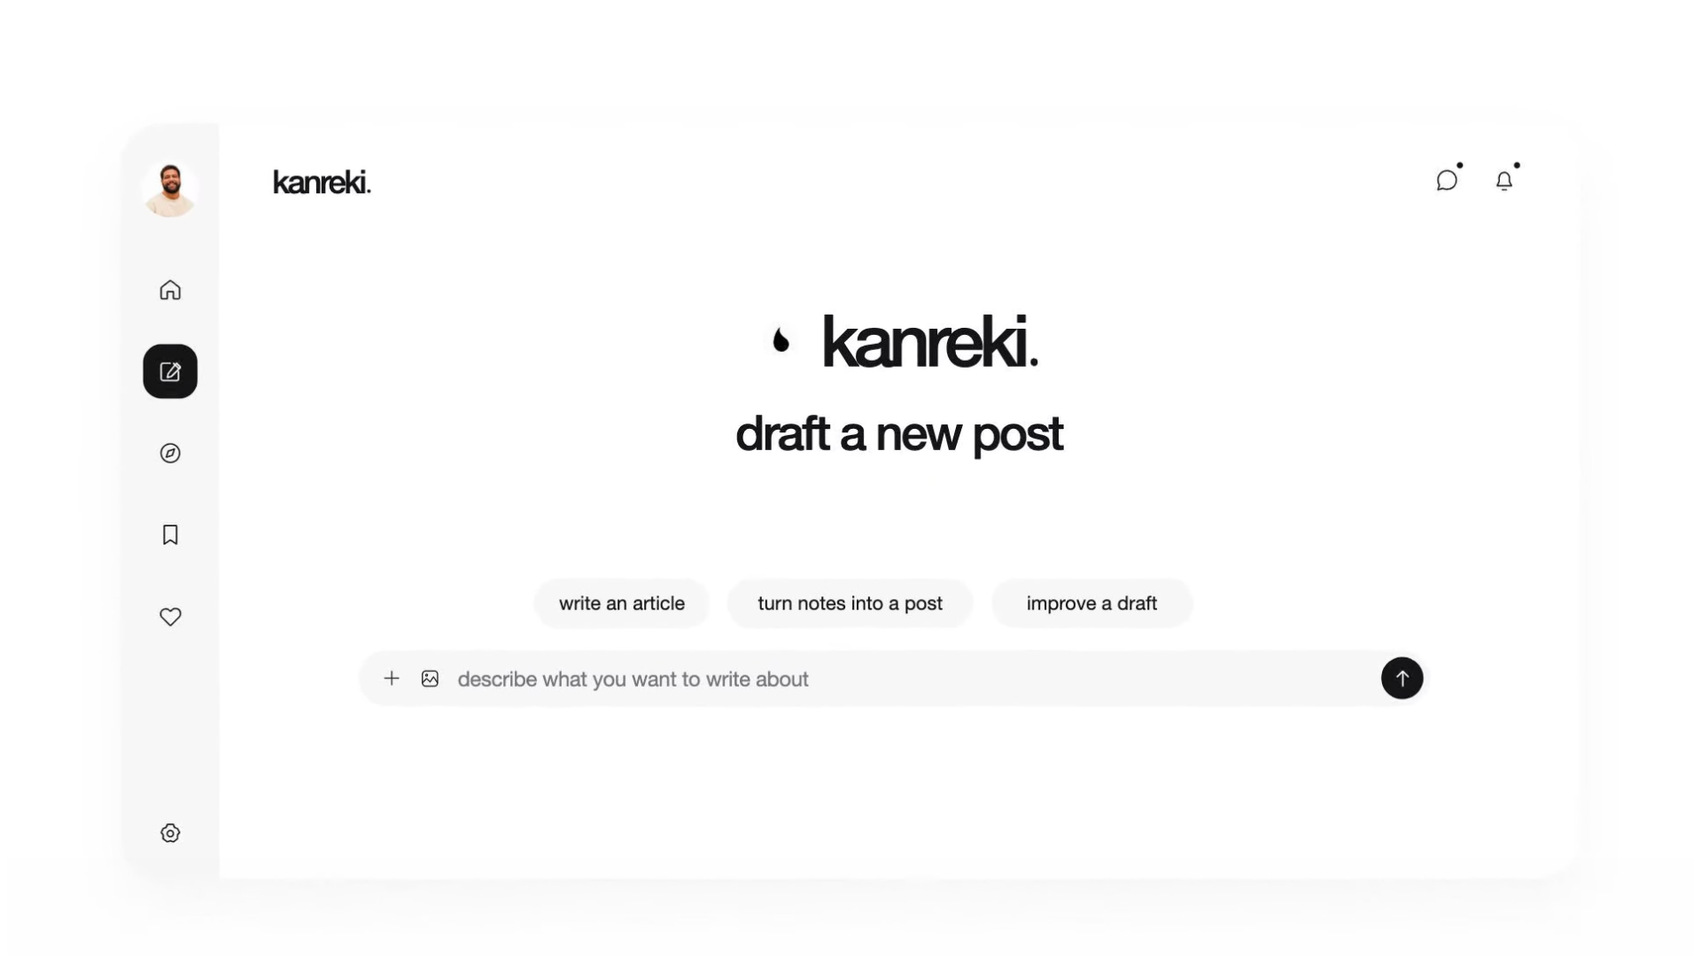
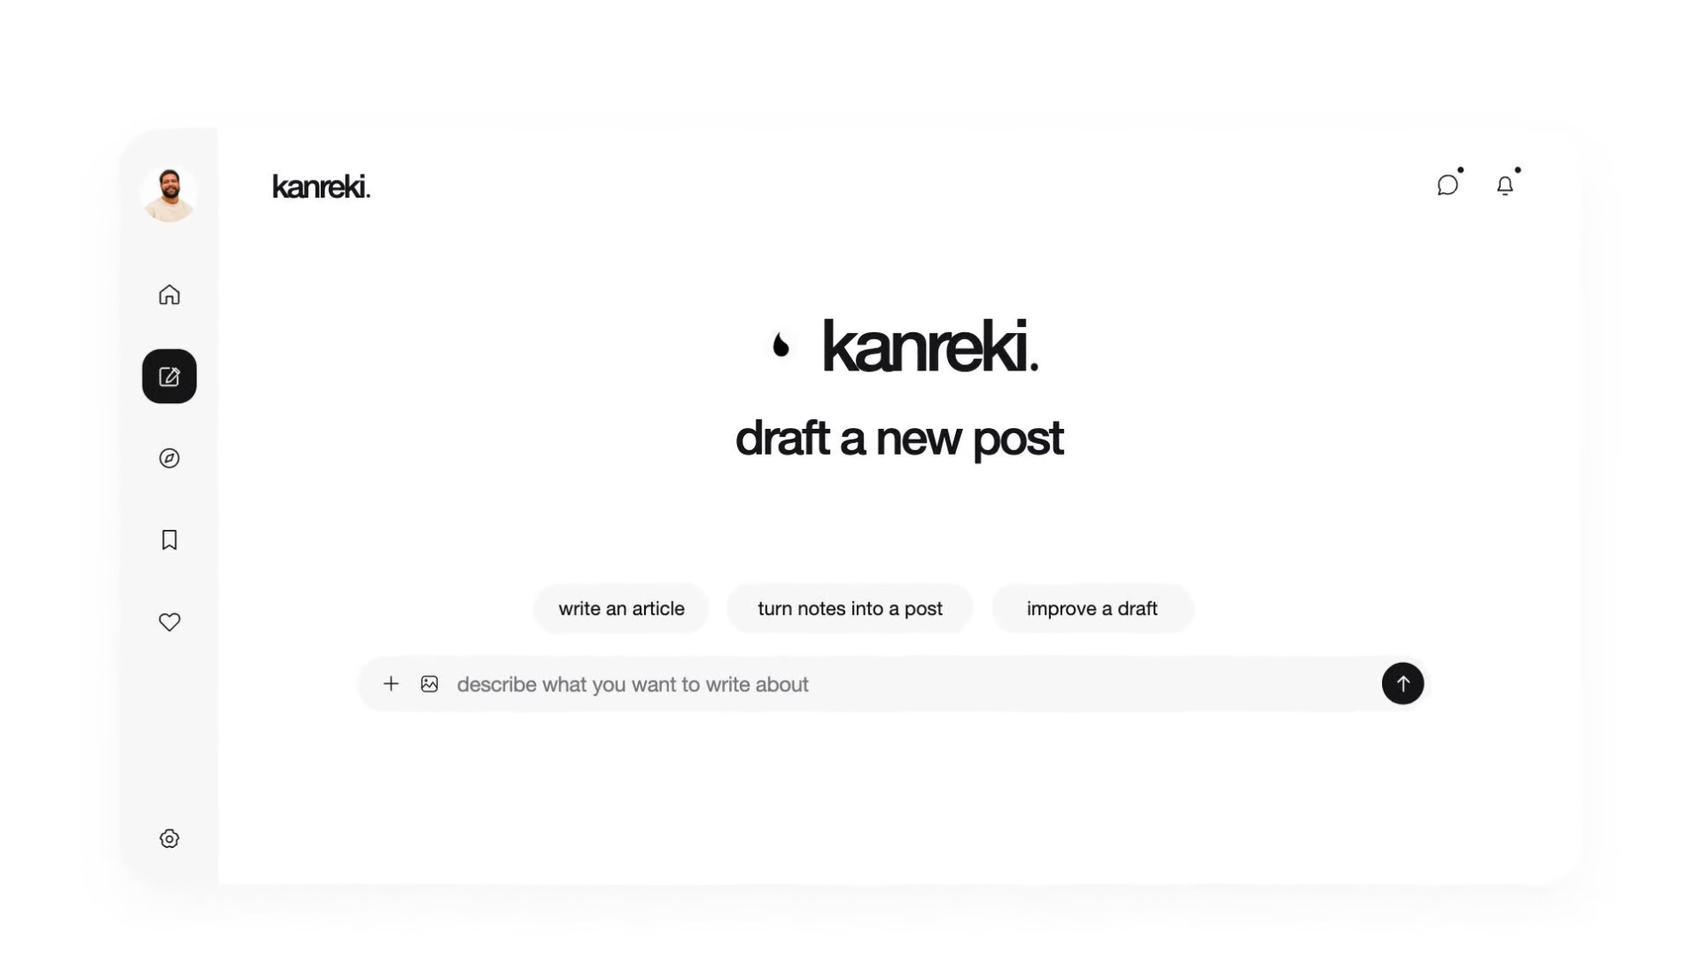
Publish owner-approved legal disclosures and enable production discovery

diff --git a/src/pages/Information.tsx b/src/pages/Information.tsx
@@ -8,12 +8,12 @@ export function Contact() {
 }
 const policies = {
   privacy: { title: 'privacy', sections: [
-    ['Scope and responsibility', 'This notice covers the public kanreki website and enquiries sent through it. The responsible operator’s legal name and public contact address still require owner confirmation before this notice is finalized. The brand was established in 2020; shared team and ownership with kailor do not identify a separate registered company.'],
+    ['Scope and responsibility', 'This public website is operated by Keeno Smith in his personal capacity under the kanreki brand, established in 2020. There is no separately registered kanreki legal entity, registered business premises or dedicated postal address. Use the contact form for privacy enquiries and requests. This notice covers this public website and its enquiry form.'],
     ['Information you provide', 'The contact form collects your name, email address and message so the team can receive, assess and respond to your enquiry, feedback or privacy request. Supplying these fields is voluntary, but they are needed to submit the form and receive a reply. Do not send passwords, identity documents or sensitive information. This website has no account backend, and sign-in and registration remain disabled.'],
     ['Enquiry delivery and request metadata', 'Sending an enquiry transmits the fields to EmailJS, which uses the existing connected Zoho email service to deliver the message to the team’s mailbox. EmailJS request history can contain the submitted fields and technical metadata, including browser, device, referring page, approximate country and IP-related information. The public website does not maintain a separate enquiry database. An unsent form draft exists only in memory while the dialog is open.'],
     ['Hosting and purposes', 'Cloudflare Pages delivers and protects this website. Hosting requests disclose information such as IP address, requested URL, browser details and request timing to the hosting infrastructure. Processing supports delivery, troubleshooting and protection against misuse. No application analytics, advertising trackers or social embeds are included. Enquiry information is used to handle the request and related correspondence, not to create a publishing account or subscribe visitors to marketing.'],
-    ['Service providers and international processing', 'Cloudflare, EmailJS and the connected email service process information to provide hosting, security and delivery. Their processing may take place outside South Africa. EmailJS states that its servers are in the United States; the actual mailbox location and applicable cross-border safeguards must be confirmed before this notice is finalized. We do not claim that all processing remains in South Africa. External LinkedIn and kailor links lead to sites with their own privacy practices.'],
-    ['Retention and deletion', 'Contact drafts are not saved in browser storage. Sent enquiries and replies remain in the receiving mailbox and may also appear in EmailJS history under its account settings and plan. This frontend has no automatic mailbox or provider-history deletion mechanism. The owner’s actual retention and deletion practice, including any applicable record-keeping duties, still requires confirmation; no fixed retention period is asserted here.'],
+    ['Service providers and international processing', 'Cloudflare, EmailJS and the connected email service process information to provide hosting, security and delivery. Their processing may take place outside South Africa. EmailJS states that its servers are in the United States. Hosting and email processing locations depend on the providers; we do not claim that all processing remains in South Africa or that a particular mailbox location has been verified. External LinkedIn and kailor links lead to sites with their own privacy practices.'],
+    ['Retention and deletion', 'Contact drafts are not saved in browser storage. Sent enquiries and replies remain in the receiving mailbox and may also appear in EmailJS history under its account settings and plan. This frontend has no automatic mailbox or provider-history deletion mechanism. From 18 November 2026, the operator has adopted a policy of retaining enquiry correspondence for 12 months after the last relevant correspondence. Enquiries will be reviewed quarterly and removed from the shared mailbox when no longer required, subject to applicable legal obligations. This is a newly adopted manual process, not automated deletion or a description of historical practice. Provider history and backups follow the relevant service settings and practices; this mailbox policy does not promise their immediate erasure.'],
     ['Security', 'HTTPS protects data in transit to the website and enquiry endpoint. The website limits permitted third-party connections and validates form fields. The form also has an in-memory duplicate-submission guard, cooldown and honeypot. These measures reduce ordinary misuse but do not guarantee security or prevent direct requests to the provider. The current shared EmailJS configuration has no domain allowlist; its public client identifiers are not private credentials.'],
     ['Your choices and privacy requests', 'Use the contact form to request access to information concerning you, correction, deletion, restriction or to object to processing. Provide enough detail to identify the enquiry, and avoid sending sensitive documents initially. We may need to verify your identity before disclosing or changing personal information and will consider applicable legal obligations. You may also raise a concern with South Africa’s Information Regulator.'],
     ['Separate publishing application and changes', 'The future publishing application will require its own privacy information covering accounts, content, moderation and any AI processing. This public-site notice does not describe those future services as operational. Material changes to this website’s processing will be reflected in an updated notice and publication date.'],
@@ -25,7 +25,7 @@ const policies = {
     ['Accuracy and availability', 'We aim to provide accurate information, but descriptions, features and availability may change. The material is general information, not professional advice or a guarantee of future access. We do not promise uninterrupted or error-free availability. Nothing in these terms excludes rights, duties or liability that applicable law does not permit us to exclude, or excuses fraud or deliberate unlawful conduct.'],
     ['External links', 'Linked websites are independently operated and have their own terms and privacy practices. A link does not guarantee their content, security or availability.'],
     ['Enquiries', 'Use the contact form for questions about this website or privacy. Provide accurate contact details and avoid confidential credentials or sensitive information. Delivery depends on EmailJS and the connected email provider. An on-screen success message follows provider acceptance; it is not a guarantee of a response time.'],
-    ['Separate application terms', 'Publishing-platform accounts, contributor rights, moderation, publishing and any future commercial services will require separate terms. These public website terms do not replace those terms or authorize access to that application. Questions about this website can be sent using the contact form.'],
+    ['Separate application terms', 'Publishing-platform accounts, contributor rights, moderation, publishing and any future commercial services will require separate terms. These public website terms do not replace those terms or authorize access to that application. This public website is operated by Keeno Smith in his personal capacity under the kanreki brand. South African law applies, subject to any mandatory rights under applicable law. Questions about this website can be sent using the contact form.'],
   ] },
   cookies: { title: 'cookies', sections: [
     ['Application storage', 'The public website application does not set cookies or persist information in localStorage or sessionStorage. An unsent enquiry stays in memory while the dialog is open. Disabled account forms do not establish a login session. The site does not include application analytics, advertising trackers or embedded third-party social content. Its films and images are served from this website.'],
@@ -38,7 +38,7 @@ const policies = {
 export type Policy = keyof typeof policies;
 export function Legal({ page }: { page: Policy }) {
   const policy = policies[page];
-  return <article className="legal-document"><h1>{policy.title}</h1><p className="review-notice">Working draft | awaiting owner and legal review before publication.</p>{policy.sections.map(([title, text]) => <section key={title}><h2>{title}</h2><p>{text}</p></section>)}<ContactLink>contact the team</ContactLink></article>;
+  return <article className="legal-document"><h1>{policy.title}</h1><p className="policy-effective-date">Effective date: 18 November 2026.</p>{policy.sections.map(([title, text]) => <section key={title}><h2>{title}</h2><p>{text}</p></section>)}{page==='privacy'&&<p>Provider information: <a href="https://www.cloudflare.com/privacypolicy/" target="_blank" rel="noopener noreferrer">Cloudflare privacy</a>, <a href="https://www.emailjs.com/legal/privacy-policy/" target="_blank" rel="noopener noreferrer">EmailJS privacy</a> and <a href="https://www.zoho.com/privacy.html" target="_blank" rel="noopener noreferrer">Zoho privacy</a>. Privacy concerns may also be raised with the <a href="https://inforegulator.org.za/complaints/" target="_blank" rel="noopener noreferrer">South African Information Regulator</a>.</p>}{page==='cookies'&&<p>See <a href="https://developers.cloudflare.com/fundamentals/reference/policies-compliances/cloudflare-cookies/" target="_blank" rel="noopener noreferrer">Cloudflare’s security cookie documentation</a> for infrastructure-managed storage.</p>}<ContactLink>contact the team</ContactLink></article>;
 }
 export function NotFound() {
   return <article className="information-page not-found"><h1>This page isn’t here.</h1><p>The address may have changed, or the page may not exist.</p><Link className="button" to="/">back to home</Link></article>;

diff --git a/tests/legal.test.tsx b/tests/legal.test.tsx
@@ -1,0 +1,14 @@
+import {it,expect} from 'vitest';
+import {render,screen,fireEvent} from '@testing-library/react';
+import {MemoryRouter} from 'react-router';
+import {App} from '../src/App';
+function mount(path:string){return render(<MemoryRouter initialEntries={[path]}><App/></MemoryRouter>);}
+it('publishes owner-authorized notices with a working privacy contact action',()=>{
+ const {container}=mount('/privacy');expect(container.querySelector('.review-notice')).toBeNull();expect(screen.getByText('Effective date: 18 November 2026.')).toBeTruthy();expect(screen.getByText(/Keeno Smith in his personal capacity/)).toBeTruthy();expect(screen.getByText(/newly adopted manual process/)).toBeTruthy();expect(container.textContent).toContain('12 months after the last relevant correspondence');expect(container.textContent).toContain('reviewed quarterly');expect(container.textContent).not.toMatch(/Pty Ltd|registration number|legally approved|automated deletion is implemented/);fireEvent.click(screen.getByRole('link',{name:'contact the team'}));expect(screen.getByRole('dialog',{name:'your enquiry'})).toBeTruthy();
+});
+it('distinguishes application storage from conditional hosting cookies',()=>{
+ const {container}=mount('/cookies');expect(container.querySelector('.review-notice')).toBeNull();expect(container.textContent).toContain('not a guarantee about every hosting security response');expect(container.textContent).toContain('cf_clearance');expect(container.textContent).toContain('does not offer an optional-cookie consent banner');
+});
+it('keeps public website terms separate from future application accounts',()=>{
+ const {container}=mount('/terms');expect(container.textContent).toContain('do not replace those terms or authorize access');expect(container.textContent).toContain('South African law applies');expect(container.querySelector('.review-notice')).toBeNull();
+});

diff --git a/src/seo.ts b/src/seo.ts
@@ -10,9 +10,9 @@ export const pages = {
   '/contact': { title: 'contact | kanreki', description: 'Contact the kanreki team about the publication and future access.', index: true },
   '/sign-in': { title: 'sign in | kanreki', description: 'Public sign-in to kanreki is currently restricted.', index: false },
   '/create-account': { title: 'create account | kanreki', description: 'Public registration for kanreki is currently restricted.', index: false },
-  '/privacy': { title: 'privacy | kanreki', description: 'Draft privacy information for the kanreki public website, pending review.', index: false },
-  '/terms': { title: 'terms | kanreki', description: 'Draft terms for the kanreki public website, pending review.', index: false },
-  '/cookies': { title: 'cookies | kanreki', description: 'Current cookie and storage behaviour of the kanreki public website. Draft pending review.', index: false },
+  '/privacy': { title: 'privacy | kanreki', description: 'Privacy information for the kanreki public website and enquiry form.', index: false },
+  '/terms': { title: 'terms | kanreki', description: 'Terms of use for the kanreki public website.', index: false },
+  '/cookies': { title: 'cookies | kanreki', description: 'Cookie and storage disclosures for the kanreki public website.', index: false },
 } as const;
 export function pageMetadata(path: string) {
   const normalised = path.replace(/\/$/, '') || '/';

diff --git a/tests/live/deployment.spec.ts b/tests/live/deployment.spec.ts
@@ -18,5 +18,5 @@ test('live enquiry focus, exact input treatment and legal publication status',as
   const name=page.getByLabel('name',{exact:true});await name.click();await expect(name).toHaveCSS('outline-style','none');await expect(name).toHaveCSS('box-shadow','rgb(119, 119, 124) 0px 0px 0px 1px');await expect(name).toHaveCSS('background-color','rgb(233, 233, 235)');await expect(name).toHaveCSS('height','50px');
   const box=await dialog.boundingBox();expect(box!.x).toBeGreaterThanOrEqual(0);expect(box!.x+box!.width).toBeLessThanOrEqual(width);await page.screenshot({path:`docs/verification/live-contact-${width}.png`});await page.keyboard.press('Escape');await expect(dialog).toHaveCount(0);await expect(trigger).toBeFocused();
  }
- for(const path of ['/privacy','/terms','/cookies']){await page.goto(path);if(process.env.KANREKI_LEGAL_FINAL==='true'){await expect(page.locator('.review-notice')).toHaveCount(0);await expect(page.getByText(/Effective date:/)).toBeVisible();}else await expect(page.getByText('Working draft | awaiting owner and legal review before publication.')).toBeVisible();}
+ for(const path of ['/privacy','/terms','/cookies']){await page.goto(path);await expect(page.locator('.review-notice')).toHaveCount(0);await expect(page.getByText('Effective date: 18 November 2026.')).toBeVisible();}
 });

diff --git a/docs/verification/launch/legal-publication-review.md b/docs/verification/launch/legal-publication-review.md
@@ -2,11 +2,11 @@
 
 Scope: the public marketing website only; no account backend, subscription, publishing agreement or operational application terms. Owner authorization permits publication once factual gaps are resolved. No independent lawyer review is claimed.
 
-## Facts requiring owner confirmation
+## Owner-confirmed publication facts
 
-- Responsible operator/legal name and public service/postal address. The brand and shared ownership description do not establish a legal entity or address.
-- Actual enquiry mailbox retention/deletion practice and any retention duties. No automatic deletion schedule is implemented in the public frontend.
-- Separate acceptance of shared EmailJS residual abuse/quota risk without a provider origin allowlist.
+The owner confirmed in this chat that Keeno Smith operates the brand personally, without a separate registered entity or business/postal address; residential disclosure is prohibited. The owner adopted a **new** manual policy of 12 months after last relevant correspondence, quarterly review and mailbox deletion when no longer required, subject to legal obligations. No historical or automated deletion practice is claimed. The owner expressly accepted the shared EmailJS configuration without allowlisting and directed publication and indexing.
+
+POPIA section 18(1)(b) calls for name and address of the responsible party. No dedicated public service address exists. The owner requested that this limitation be identified without blocking technical deployment; the notice gives the confirmed operator name and contact form. This is a documented disclosure limitation, not certification that the statutory address disclosure has been fulfilled. No independent lawyer approval is claimed. The separate provider-risk and legal publication decisions are recorded in release-approvals.json.
 
 ## Verified implementation
 
@@ -32,7 +32,7 @@ We aim to keep information accurate, but features and availability may change. T
 
 Use the enquiry form for website questions and privacy requests. Provide accurate contact details and avoid confidential credentials or sensitive information. Delivery depends on EmailJS and the connected provider; an on-screen confirmation records provider acceptance, not a promise of response time.
 
-Future publishing application accounts, content rights, moderation and services will require separate terms. These public website terms do not replace those terms. South African law and jurisdiction wording awaits confirmation of the actual operator's location.
+Future publishing application accounts, content rights, moderation and services will require separate terms. These public website terms do not replace those terms. The finalized public terms apply South African law subject to mandatory rights.
 
 ## Source references checked
 
@@ -44,4 +44,4 @@ Future publishing application accounts, content rights, moderation and services 
 - Conditional security cookies: https://developers.cloudflare.com/fundamentals/reference/policies-compliances/cloudflare-cookies/
 - Zoho privacy: https://www.zoho.com/privacy.html
 
-This record preserves unresolved facts explicitly; it is not an approval or compliance certification.
+This record preserves the source of the owner’s publication decision and remaining address-disclosure limitation; it is not an independent legal review or compliance certification.

diff --git a/docs/predeployment.md b/docs/predeployment.md
@@ -1,3 +1,15 @@
+# Authorized production launch | 18 November 2026
+
+The owner confirmed personal-capacity operation by Keeno Smith, no separately registered entity or dedicated business/postal address, and a newly adopted manual enquiry retention policy: 12 months after the last relevant correspondence, quarterly review and deletion from the shared mailbox when no longer required, subject to legal obligations. The owner explicitly accepted the residual abuse/quota risk of shared EmailJS identifiers without domain allowlisting and instructed publication and production indexing. The legal pages now carry an effective date of 18 November 2026 and no draft banner. No automated deletion, company registration, corporate address or independent legal review is claimed.
+
+POPIA section 18(1)(b) calls for the responsible party’s name and address. The absence of a dedicated public service address remains documented; no residential address was published. Following the owner’s explicit direction, this is a disclosure limitation rather than an additional technical deployment gate. It is not represented as complete legal compliance. The contact form remains the privacy-request route.
+
+The production environment has been configured for the verified origin, preserving the shared EmailJS identifiers and preview-branch noindex settings. A fresh GitHub build will activate index/follow only for home, About and Contact. Legal and restricted account routes remain noindex. Google URL-prefix ownership is already verified; sitemap submission and indexing requests follow live indexability verification. Actual deployment/test/Search Console outcomes are recorded under docs/verification/launch/.
+
+All six films, homepage layouts, contact modal, account restrictions and kailor resources remain unchanged. Earlier stages below are historical records, not current approval status.
+
+---
+
 # Search Console and legal-publication review | 18 November 2026
 
 Google verified the URL-prefix property **https://kanreki-public.pages.dev/** using its issued HTML file, now preserved under public/. Cloudflare redirects the .html path to the same-origin extensionless resource; its exact content returns HTTP 200 and Google accepted the verification. The property overview is processing data. **No sitemap was submitted and no indexing was requested**, because the actual site remains noindex while material owner decisions are pending.

diff --git a/docs/deployment.md b/docs/deployment.md
@@ -1,3 +1,13 @@
+# Current production authorization | 18 November 2026
+
+The owner approved finalized public-site disclosures based on confirmed personal operation and the newly adopted manual retention policy, and separately accepted the existing shared EmailJS configuration without origin allowlisting. Production settings are DEPLOYMENT_ENV=production, SITE_URL=https://kanreki-public.pages.dev, SITE_ORIGIN_VERIFIED=true and NODE_VERSION=24. Shared identifiers and preview environment settings are preserved. No subscription, DNS, custom domain, kailor configuration or shared template change was made.
+
+Legal pages remain noindex by editorial indexing policy after finalization; this does not indicate unapproved content. The lack of a dedicated public responsible-party address is documented against POPIA section 18(1)(b), with the owner’s express direction not to publish a residential address or block technical deployment on this point. No legal-compliance certification is claimed.
+
+Google URL-prefix ownership is verified. Keep public/google5f979766b2c25bff.html. Production release and Search Console results are recorded in the current verification evidence; prior deployment history follows below.
+
+---
+
 # kanreki | independent Cloudflare Pages deployment
 
 Repository: `keenosmith-del/kanreki-public`. The independent **GitHub-connected** Pages project `kanreki-public` now exists in the account verified against the existing kailor zone and Pages project. Its actual assigned and HTTPS-verified stable origin is **https://kanreki-public.pages.dev**. The initial Git-source build successfully deployed approved commit `16177fd83fe8df79fa31a34a842ef9abe46f2cc6` and is deliberately **noindex** while release reviews remain pending. No custom domain was configured or purchased.

diff --git a/README.md b/README.md
@@ -4,7 +4,7 @@ Independent React, TypeScript and Vite public website for [keenosmith-del/kanrek
 
 Six approved cinematic films are integrated. This iteration preserves their source and MP4 exports; only three authorized WebM delivery encodes change. Lower-page films load near the viewport; mobile and reduced-motion users receive the existing static posters. The hero retains its first-completed-playback account actions.
 
-Live noindex deployment: [kanreki-public.pages.dev](https://kanreki-public.pages.dev/). Cloudflare Pages builds this repository’s `main` branch with GitHub integration. Public indexing remains gated by legal review and the shared provider-origin security decision. See [current deployment report](docs/predeployment.md).
+Live website: [kanreki-public.pages.dev](https://kanreki-public.pages.dev/). Cloudflare Pages builds this repository’s `main` branch with GitHub integration. The owner approved public-site disclosures and accepted the shared provider-origin limitation; production discovery routes are configured for indexing, with legal and account routes remaining noindex. See [current deployment report](docs/predeployment.md).
 
 Use Node 24 (`.node-version`).
 
